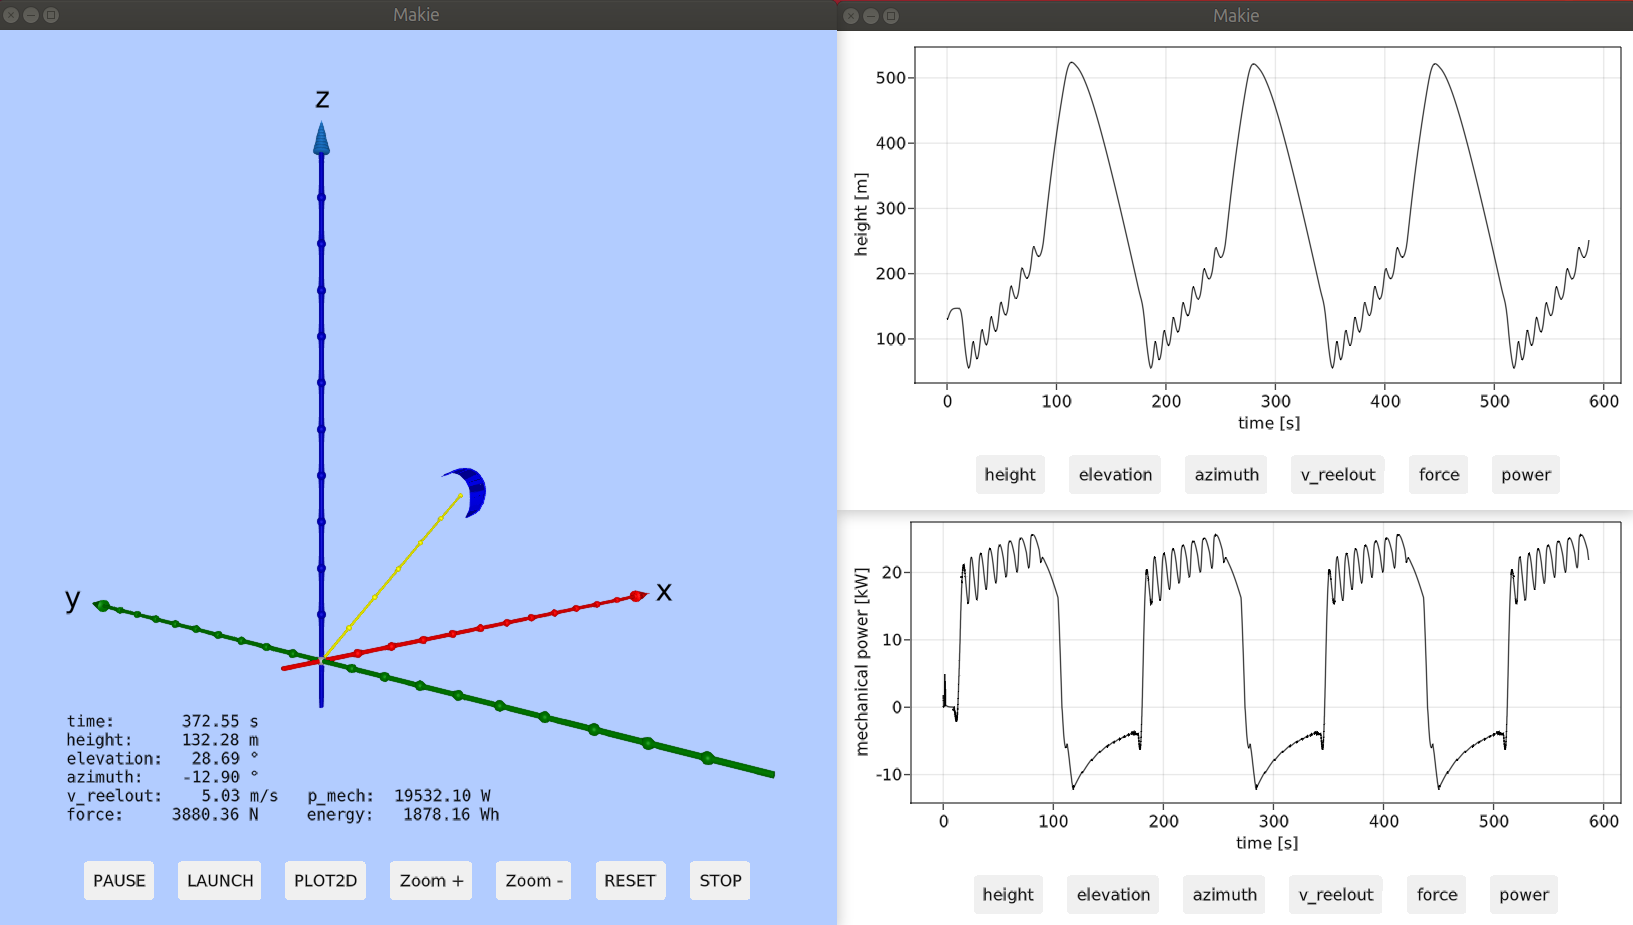
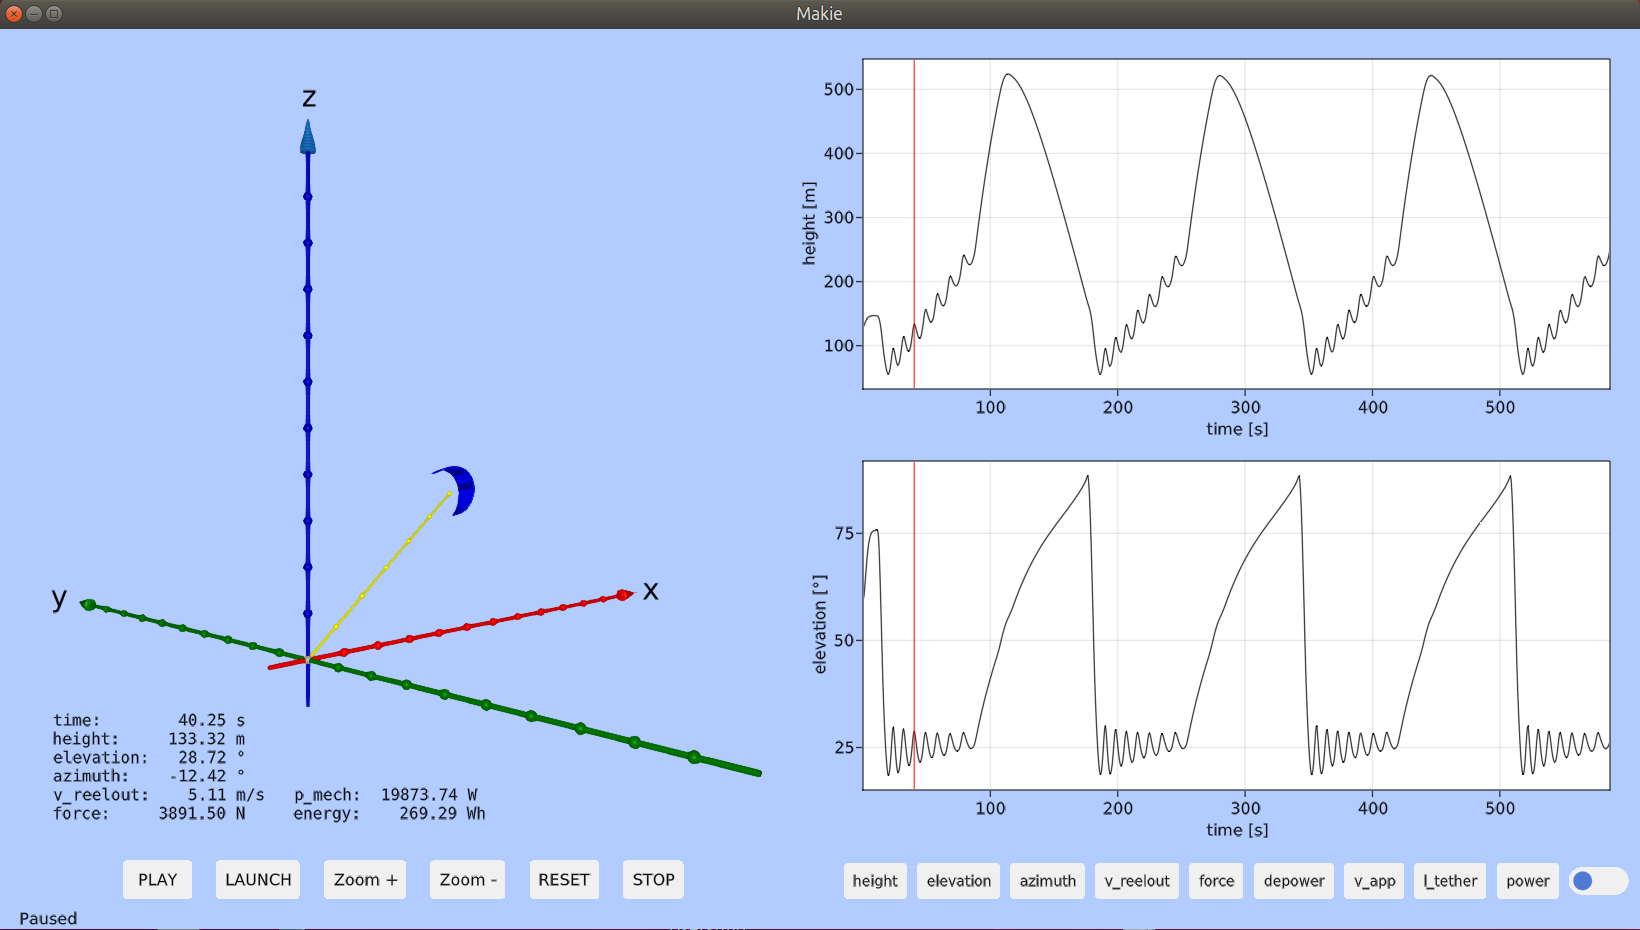
Updated README.md

diff --git a/doc/SystemImage.md b/doc/SystemImage.md
@@ -28,18 +28,6 @@ or the following command to launch the GUI without julia command line:
 On my computer (i7-7700K) this reduced the startup time from 69s to 9s.
 
 ## Troubleshooting
-### Preparation
-Before running the script ```create_sys_image.sh``` it is suggested to update your packages:
-
-```
-./runjulia.sh
-]resolve
-instantiate
-up
-precompile
-<backspace>
-exit()
-```
 
 ### Error "Cannot find crti.o" on Linux
 Install the package gcc-multilib

diff --git a/README.md b/README.md
@@ -53,7 +53,7 @@ include("src/KiteViewer.jl")
 main()
 ```
 
-Use the right mouse button to zoom and the left mouse button to pan
+Click on PLAY to play the log file. Use the right mouse button to zoom and the left mouse button to pan
 the 3D view. 
 
 ## Import flight data
